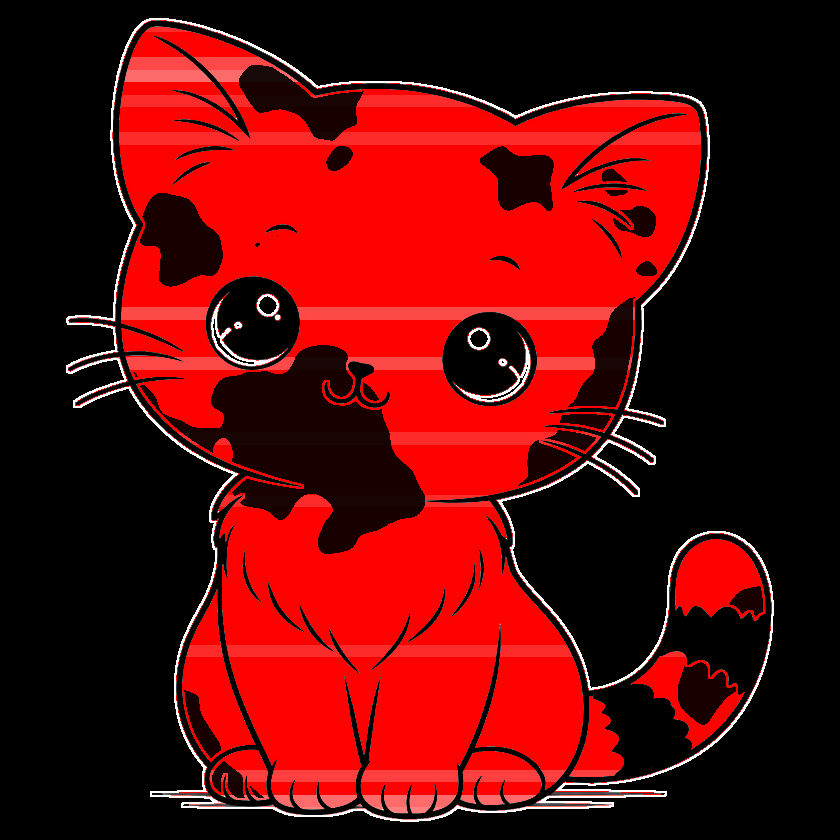
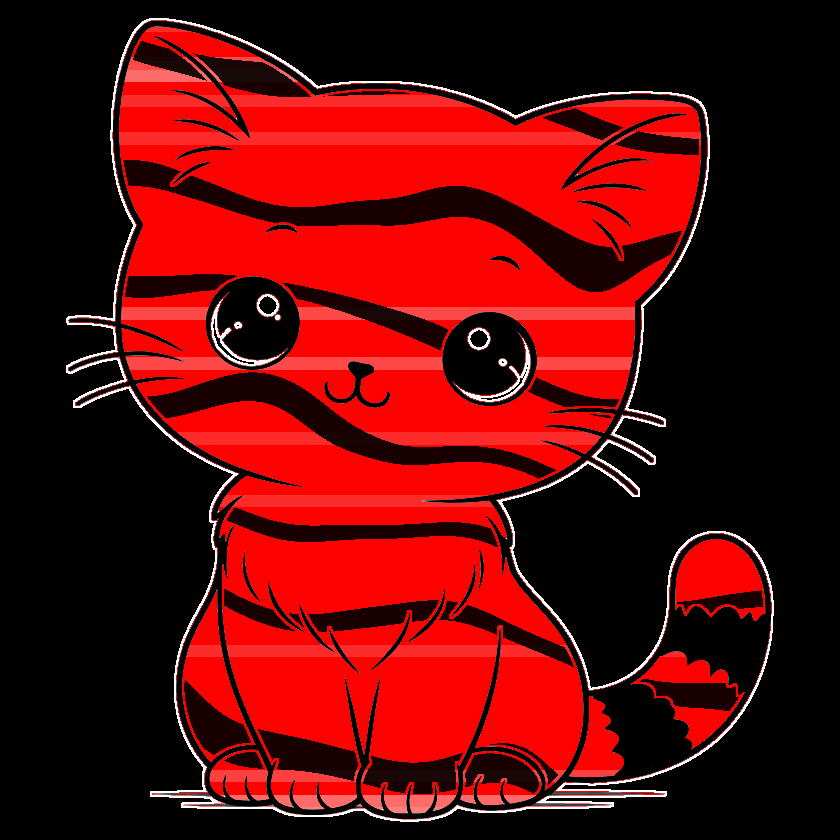
Derive pattern type from model family name (up to first dash)
All models in the same family (e.g. Qwen3.5-0.8B, Qwen3.5-72B)
now get the same fur pattern type, while still having unique
pattern details. Uses SHA-256 of the family prefix with mod 4
for uniform distribution across the 4 pattern types.

https://claude.ai/code/session_01Y1zeYokrXQCEx2qjFvhX8B

diff --git a/excat.py b/excat.py
@@ -147,9 +147,14 @@ def hash_model_name(name: str) -> dict:
     """Hash a model name and derive all pattern parameters deterministically."""
     h = hashlib.sha256(name.encode()).hexdigest()
 
-    # Use different slices of the hash for different parameters
+    # Pattern type is based on the model family (up to first dash)
+    # so all models in the same family get the same pattern type
+    family = name.split("-")[0]
+    fh = hashlib.sha256(family.encode()).hexdigest()
+    pattern_idx = int(fh[:2], 16) % len(PATTERN_TYPES)
+
+    # Use different slices of the full hash for other parameters
     seed = int(h[:8], 16)
-    pattern_idx = int(h[8:10], 16) % len(PATTERN_TYPES)
     scale = 3.0 + (int(h[10:12], 16) / 255.0) * 4.0       # 3.0 - 7.0
     threshold = 0.15 + (int(h[12:14], 16) / 255.0) * 0.20  # 0.15 - 0.35
     angle = (int(h[14:16], 16) / 255.0) * math.pi           # 0 - pi
